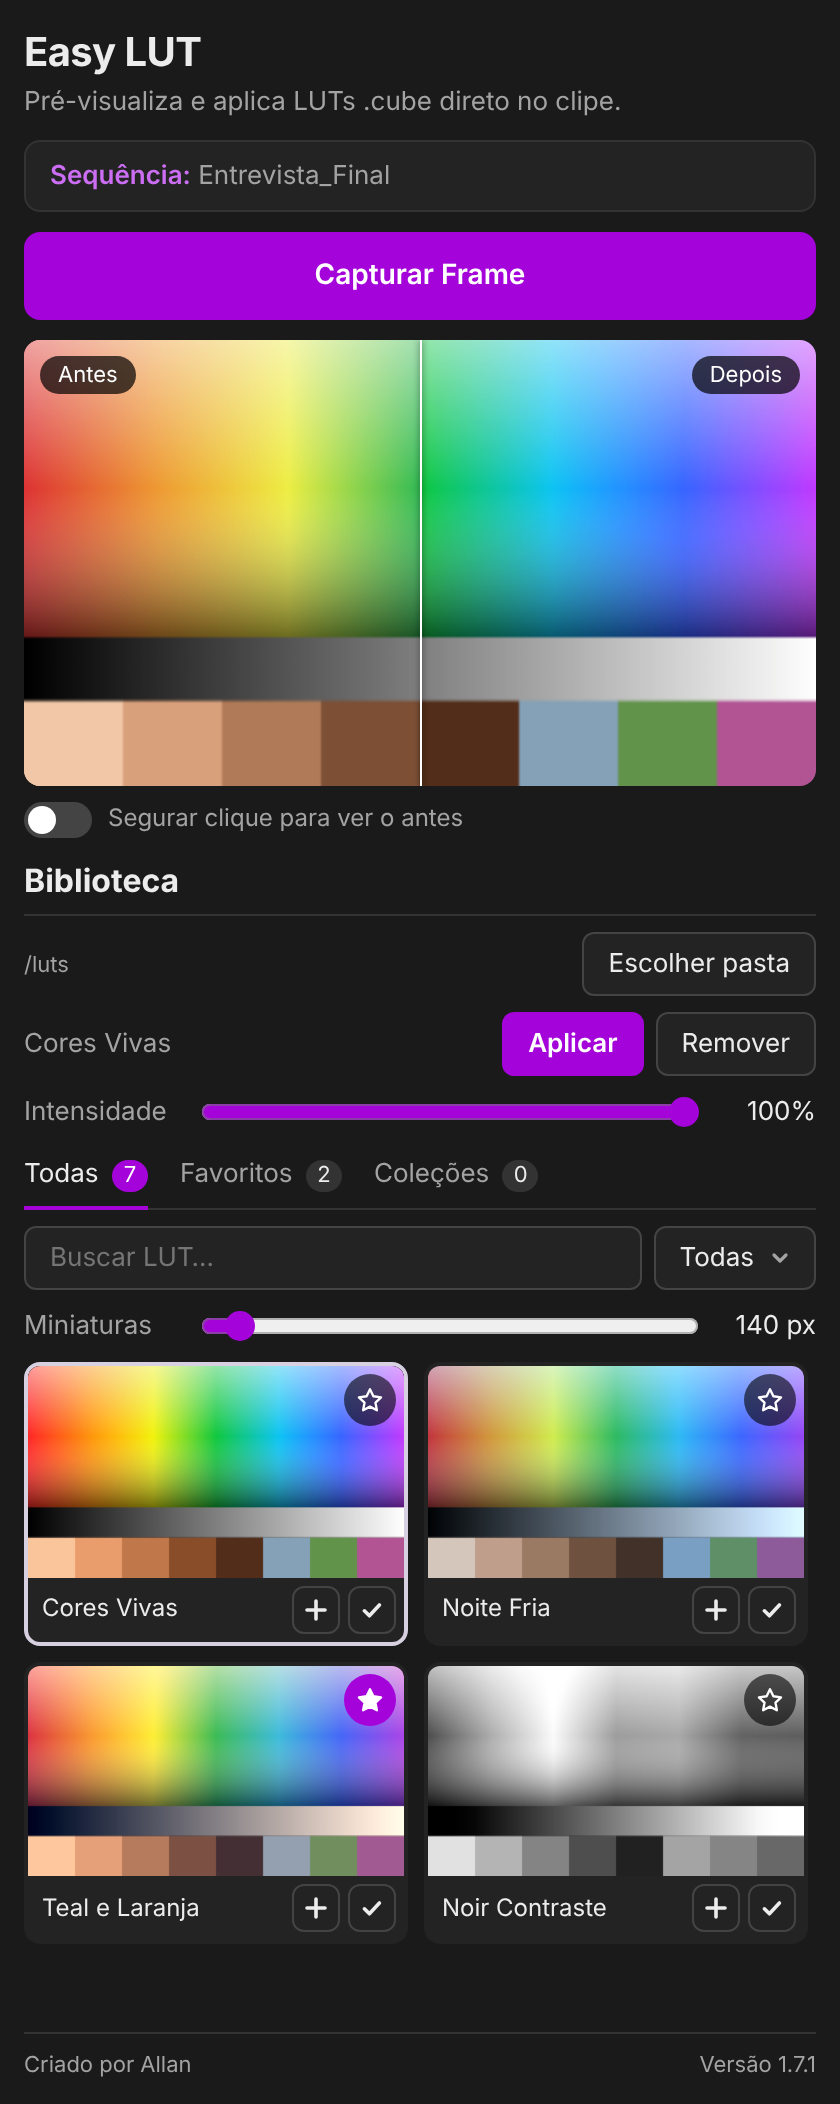
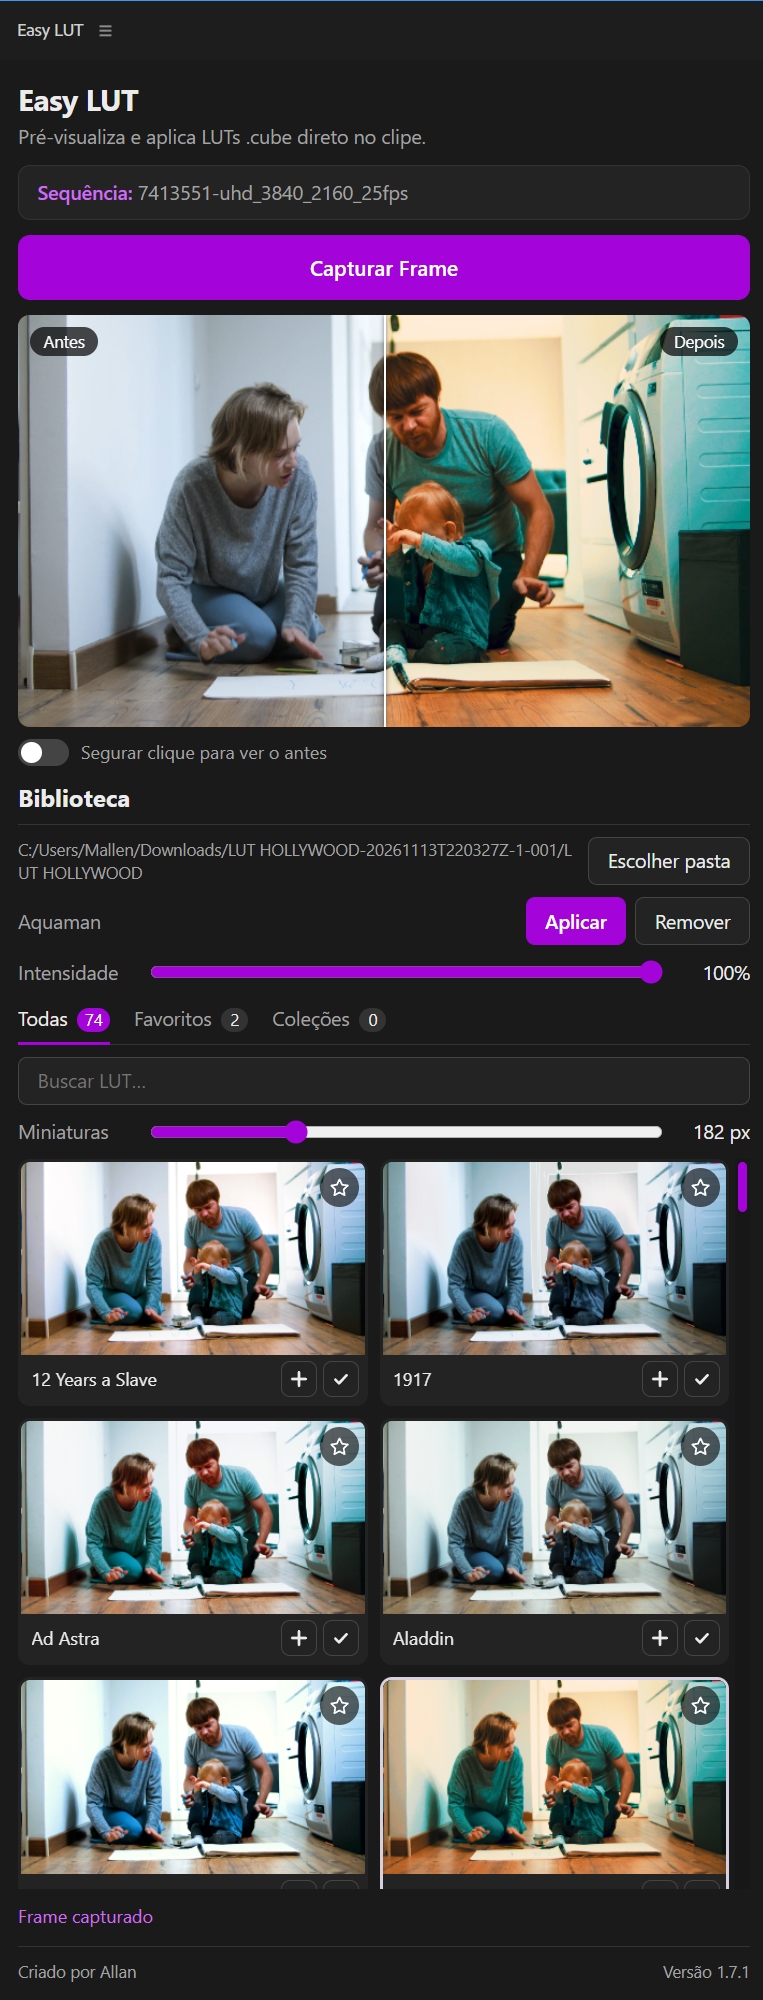
Alteração de imagens de exemplo do plugin

diff --git a/README.md b/README.md
@@ -52,9 +52,11 @@ Testar LUTs no Premiere costuma ser lento: aplicar uma, olhar, trocar o arquivo 
 3. aplica a LUT escolhida no clipe (no grupo **Creative** do efeito Lumetri Color), com controle de intensidade.
 
 <div align="center">
-<img src="docs/assets/screenshot.png" alt="Interface do painel Easy LUT" width="380">
+<img src="docs/assets/screenshot.png" alt="Interface do painel Easy LUT" width="32%">
+<img src="docs/assets/screenshot2.png" alt="Favoritos exemplo" width="32%">
+<img src="docs/assets/screenshot3.png" alt="Utilização de coleções com pasta mais LUT adicionado" width="32%">
 <br>
-<sub>Interface do painel, com LUTs de exemplo.</sub>
+<sub>Interface do painel Easy LUT.</sub>
 </div>
 
 ---
